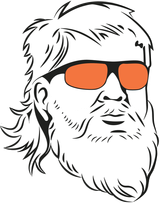
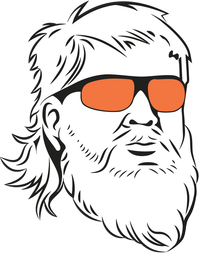
Ship dev to production: slash X, larger header caricature, tighter timeline

diff --git a/src/app/pages/john-daly/john-daly.css b/src/app/pages/john-daly/john-daly.css
@@ -159,11 +159,11 @@
 
 /* ---------- Timeline ---------- */
 
-.jd-timeline { background: #f3f3f1; padding: clamp(64px, 8vw, 112px) var(--container-gutter); }
-.jd-timeline__inner { display: grid; gap: clamp(32px, 5vw, 64px); margin-inline: auto; max-width: var(--jd-max); }
+.jd-timeline { background: #f3f3f1; padding: clamp(48px, 6vw, 80px) var(--container-gutter); }
+.jd-timeline__inner { display: grid; gap: clamp(24px, 3.5vw, 44px); margin-inline: auto; max-width: var(--jd-max); }
 .jd-timeline__intro { align-items: end; column-gap: 24px; display: grid; grid-template-columns: minmax(0, 1fr) auto; }
 .jd-timeline__intro > :not(.jd-timeline__caricature) { grid-column: 1; }
-.jd-timeline__caricature { grid-column: 2; grid-row: 1 / span 2; height: auto; margin-bottom: -8px; width: clamp(96px, 14vw, 180px); }
+.jd-timeline__caricature { grid-column: 2; grid-row: 1 / span 2; height: auto; margin-bottom: -4px; width: clamp(72px, 9vw, 124px); }
 .jd-timeline__list { counter-reset: jd; display: grid; list-style: none; margin: 0; padding: 0; }
 .jd-timeline__item { align-items: baseline; border-top: 1px solid var(--color-ink); display: grid; gap: 4px 20px; grid-template-columns: 5.5rem 1fr; padding: 20px 0 24px; }
 .jd-timeline__year { color: var(--jd-orange); font-size: 2rem; font-variant-numeric: tabular-nums; font-weight: 700; letter-spacing: -0.04em; line-height: 0.9; margin: 0; }

diff --git a/src/components/layout/Logo.tsx b/src/components/layout/Logo.tsx
@@ -27,24 +27,21 @@ export function Logo() {
         width={220}
       />
       </span>
-      {/* Orange X from the Northwestern × John Daly lockup. */}
+      {/* Orange X drawn as two slashes, slanted to match the italic wordmark. */}
       <svg aria-hidden="true" className="site-header__cross" viewBox="0 0 40 40">
-        <path
-          d="M8 2 20 14 32 2l6 6-12 12 12 12-6 6-12-12L8 38l-6-6 12-12L2 8Z"
-          fill="#f47b2a"
-          stroke="#fff"
-          strokeLinejoin="round"
-          strokeWidth="1.6"
-        />
+        <g fill="#f47b2a" stroke="#fff" strokeLinejoin="round" strokeWidth="1.4">
+          <path d="M12 2h8L30 38h-8Z" />
+          <path d="M30 2h8L10 38H2Z" />
+        </g>
       </svg>
       {/* John Daly caricature: line art in black, or white on transparent headers. */}
-      <img alt="" className="site-header__daly" height={203} src="/images/daly/jd-caricature-sm.png" width={160} />
+      <img alt="" className="site-header__daly" height={254} src="/images/daly/jd-caricature-sm.png" width={200} />
       <img
         alt=""
         className="site-header__daly site-header__daly--transparent"
-        height={203}
+        height={254}
         src="/images/daly/jd-caricature-white-sm.png"
-        width={160}
+        width={200}
       />
     </Link>
   );

diff --git a/src/app/globals.css b/src/app/globals.css
@@ -242,7 +242,7 @@ button:hover > .circle-chevron { background: var(--color-ink); color: var(--colo
 .site-header__logo { align-items: center; display: flex; gap: 8px; grid-area: logo; justify-self: center; max-width: 100%; }
 .site-header__wordmark { display: block; flex: none; width: 128px; }
 .site-header__cross { display: block; flex: none; height: 16px; width: 16px; }
-.site-header__daly { display: block; flex: none; height: 38px; width: auto; }
+.site-header__daly { display: block; flex: none; height: 48px; margin-block: -6px; width: auto; }
 .site-header__logo-image { display: block; height: auto; width: 100%; }
 .site-header__logo-image--transparent,
 .site-header__daly--transparent,
@@ -345,7 +345,7 @@ button:hover > .circle-chevron { background: var(--color-ink); color: var(--colo
   .site-header__logo { gap: 12px; }
   .site-header__wordmark { width: 190px; }
   .site-header__cross { height: 22px; width: 22px; }
-  .site-header__daly { height: 46px; margin-block: -4px; }
+  .site-header__daly { height: 62px; margin-block: -12px; }
   .site-header__icons { gap: 1.5rem; }
   .site-header .site-header__search-mobile { display: none; }
   .site-header .site-header__search-desktop,
